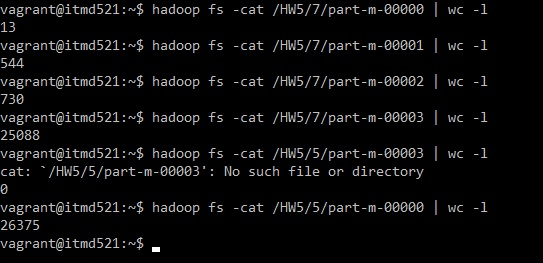
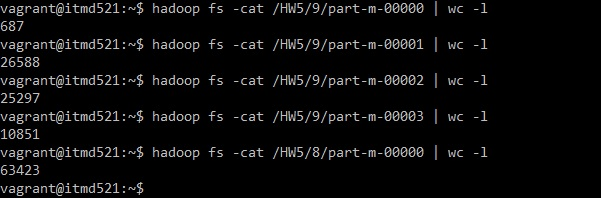
add the 4 map tasks result

diff --git a/itmd-521/Week-05/README.md b/itmd-521/Week-05/README.md
@@ -18,12 +18,25 @@ Include a the command you used to generate the output in a file named: ```sqoop.
 
 ### Deliverable 1
 
-vagrant@itmd521:/$ sqoop import --connect jdbc:mysql://localhost/itmd521 --table records -m 1 --username root -P --where "temperature >= 380 and temperature <> 9999" --target-dir /HW5/5
+#### One Map Task:
+sqoop import --connect jdbc:mysql://localhost/itmd521 --table records -m 1 --username root -P --where "temperature >= 380 and temperature <> 9999" --target-dir /HW5/8
+
+#### Four Map Tasks:
+sqoop import --connect jdbc:mysql://localhost/itmd521 --table records -m 4 --username root -P --where "temperature >= 380 and temperature <> 9999" --target-dir /HW5/9
+
 
 ### Deliverable 2
 
-![Part 2](images/part2.jpg "Part 2 - The 10 last records")
+#### Result According to one Map task (-m 1)
+![Part 2](images/part2.jpg "Part 2 - The 10 last records, According to 1 map task")
+
+#### Result According to four Map tasks (-m 4)
+![Part 2](images/four_mr.jpg "Part 2 - The 10 last records, According to 4 map task")
 
 ### Additional Notes
 * The Database name is itmd521.
-* 12th column is temperature. 
+* 13th column is temperature. 
+* I used the condition "temperature >= 380" because according to the dataset description in the book the temperature is Celsius * 10 so 38 degree Celsius in the dataset is equivalent of 380 
+* When I imported data to MySql, I had not included id column in the table. So, to use more than one Map task I added one id column to records table with the following command:
+** ALTER TABLE records ADD id int NOT NULL AUTO_INCREMENT primary key FIRST;
+* The first screenshot is the result for one Map task (-m 1) and the second screenshot is the result for four Map tasks (-m 4)
